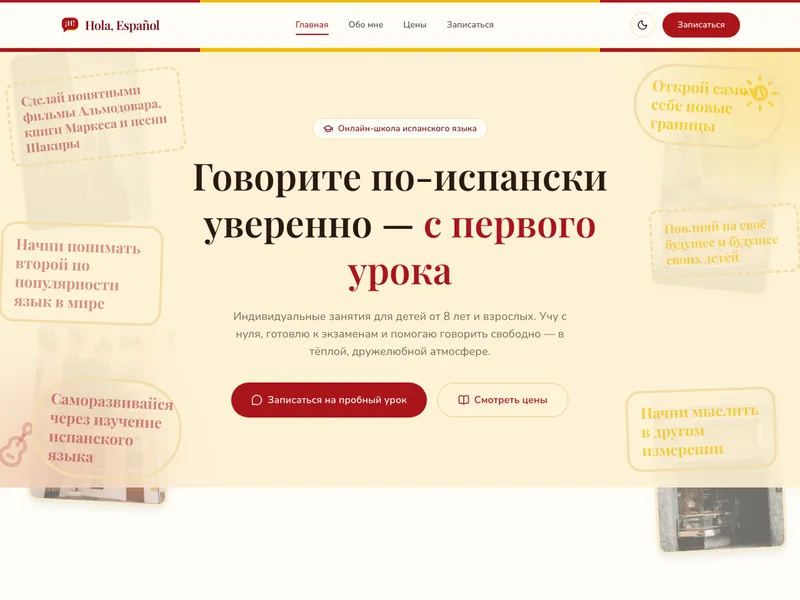
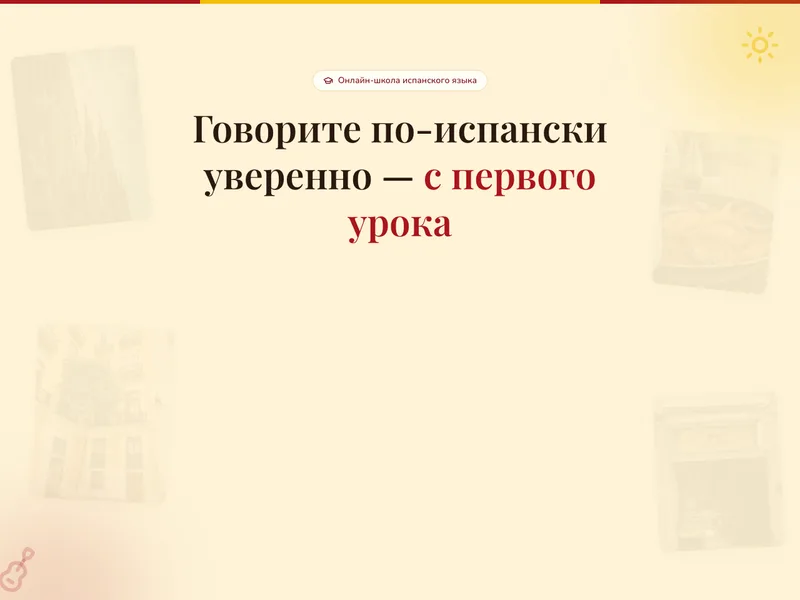
feat(ui): аватары учеников, 4 статьи на главной, спокойный «ИИ блог», круглые колёса роботов
- Аватары Екатерины и Евгения на карточках работ (240x240 webp).
- Превью сайтов Екатерины и Евгения пересняты без шапки, подзаголовков
  и кнопок: текст карточки больше не накладывается на текст скриншота.
- Секция блога на главной: 4 свежие статьи, заголовок «Обучающие материалы».
- Заголовок /blog: «ИИ» терракотой, «блог» основным цветом, размер heading-xl;
  розовый и белая обводка убраны вместе с неиспользуемым CSS.
- Колёса роботов-персонажей стали круглыми (circle вместо rect).

diff --git a/app/globals.css b/app/globals.css
@@ -25,10 +25,6 @@
     --brand-terracotta: 191 99 58; /* #BF633A жжёная охра — главный цвет */
     --brand-amber: 209 147 47; /* #D1932F медовое золото — AI-акценты */
     --brand-green: 138 158 108; /* #8A9E6C приглушённый оливковый — CTA */
-    /* Розовый в надписи «ИИ». На светлом фоне тон насыщеннее, иначе буквы
-       растворяются в странице */
-    --shine-base: 214 41 126; /* #D6297E */
-
     /* Границы и тени */
     --border-light: 228 224 215; /* #E4E0D7 нейтральная тёплая граница */
     --shadow-soft: 0 8px 30px rgba(26, 29, 31, 0.08);
@@ -56,8 +52,6 @@
     --brand-terracotta: 212 135 102; /* #D48766 */
     --brand-amber: 232 192 112; /* #E8C070 */
     --brand-green: 122 207 168; /* #7ACFA8 */
-    /* На тёмном фоне розовый можно брать светлее */
-    --shine-base: 255 79 163; /* #FF4FA3 */
 
     /* Границы и тени */
     --border-light: 58 53 50; /* #3A3532 */
@@ -195,27 +189,6 @@
     animation: none;
     /* Без анимации показываем ленту от начала */
     transform: translateX(0);
-  }
-}
-
-/* ===== Надпись «ИИ» (components/blog/BlogWordmark.tsx) =====
-   Сплошной розовый: на светлом фоне глубже, на тёмном светлее. */
-
-.text-shine {
-  color: rgb(var(--shine-base));
-}
-
-/* Белые буквы с чёрной обводкой. Обводка идёт снаружи глифа (paint-order),
-   поэтому не съедает форму букв и работает на любом фоне. */
-.text-outlined {
-  color: #fff;
-  -webkit-text-stroke: 2px #000;
-  paint-order: stroke fill;
-}
-
-@media (min-width: 640px) {
-  .text-outlined {
-    -webkit-text-stroke-width: 3px;
   }
 }
 

diff --git a/components/RobotBackdrop.tsx b/components/RobotBackdrop.tsx
@@ -41,11 +41,11 @@ export function CourierRobot({ className = '', style }: SpriteProps) {
       <path d="M28,-34 L46,-26" stroke={terracotta} strokeWidth="5" />
       <rect x="42" y="-26" width="22" height="14" fill={green} />
       <g className="rb-wheel">
-        <rect x="-24" y="-10" width="20" height="20" fill={ink} />
+        <circle cx="-14" cy="0" r="10" fill={ink} />
         <line x1="-14" y1="-6" x2="-14" y2="6" stroke={surface} strokeWidth="2.5" />
       </g>
       <g className="rb-wheel">
-        <rect x="4" y="-10" width="20" height="20" fill={ink} />
+        <circle cx="14" cy="0" r="10" fill={ink} />
         <line x1="14" y1="-6" x2="14" y2="6" stroke={surface} strokeWidth="2.5" />
       </g>
     </svg>
@@ -63,11 +63,11 @@ export function ForkliftRobot({ className = '', style }: SpriteProps) {
       <rect x="-12" y="-26" width="13" height="9" fill={surface} />
       <rect className="rb-pulse" x="11" y="-36" width="6" height="6" fill={terracotta} style={{ animationDelay: '-0.8s' }} />
       <g className="rb-wheel rb-wheel-rev">
-        <rect x="-17" y="-7" width="14" height="14" fill={ink} />
+        <circle cx="-10" cy="0" r="7" fill={ink} />
         <line x1="-10" y1="-4" x2="-10" y2="4" stroke={surface} strokeWidth="2" />
       </g>
       <g className="rb-wheel rb-wheel-rev">
-        <rect x="3" y="-7" width="14" height="14" fill={ink} />
+        <circle cx="10" cy="0" r="7" fill={ink} />
         <line x1="10" y1="-4" x2="10" y2="4" stroke={surface} strokeWidth="2" />
       </g>
     </svg>

diff --git a/components/sections/BlogTeaser.tsx b/components/sections/BlogTeaser.tsx
@@ -3,22 +3,22 @@ import { Reveal } from '@/components/Reveal';
 import { BlogCard } from '@/components/blog/BlogCard';
 import { getAllPosts } from '@/lib/blog';
 
-/** Две свежие статьи блога на главной — перед формой заявки. */
+/** Четыре свежие статьи блога на главной — перед формой заявки. */
 export function BlogTeaser() {
-  const posts = getAllPosts().slice(0, 2);
+  const posts = getAllPosts().slice(0, 4);
 
   return (
     <section id="blog-teaser" className="section scroll-mt-24 bg-surface-soft">
       <div className="container-page">
         <Reveal>
-          <h2 className="heading-lg text-center">Свежее из блога</h2>
+          <h2 className="heading-lg text-center">Обучающие материалы</h2>
           <p className="mx-auto mt-4 max-w-2xl text-center text-ink-soft">
             Пишем о том, как делать сайты самому с помощью ИИ-агентов: разборы,
             инструкции и чеклисты.
           </p>
         </Reveal>
 
-        <div className="mx-auto mt-12 grid max-w-3xl gap-6 sm:grid-cols-2">
+        <div className="mt-12 grid gap-6 sm:grid-cols-2 lg:grid-cols-4">
           {posts.map((post, index) => (
             <Reveal key={post.slug} delay={index * 80}>
               <BlogCard post={post} />

diff --git a/components/blog/BlogWordmark.tsx b/components/blog/BlogWordmark.tsx
@@ -1,14 +1,14 @@
 /**
- * Заголовок списка статей: крупная надпись «ИИ блог».
+ * Заголовок списка статей: «ИИ блог».
  *
- * «ИИ» набран сплошным розовым, «блог» — белым с чёрной обводкой. Без теней,
- * заливок и анимации: минималистично.
+ * Спокойная версия в палитре сайта: «ИИ» терракотой (главный акцент бренда,
+ * как выделенные слова в заголовках на главной), «блог» основным цветом
+ * текста. Размер — heading-xl, как у обложек остальных страниц.
  */
 export function BlogWordmark() {
   return (
-    <h1 className="select-none font-display text-6xl font-bold uppercase leading-none tracking-tight sm:text-8xl lg:text-9xl">
-      <span className="text-shine">ИИ</span>{' '}
-      <span className="text-outlined">блог</span>
+    <h1 className="heading-xl select-none">
+      <span className="text-terracotta">ИИ</span> блог
     </h1>
   );
 }

diff --git a/components/sections/StudentWorks.tsx b/components/sections/StudentWorks.tsx
@@ -46,6 +46,7 @@ const works: Work[] = [
       'Онлайн-школа испанского: индивидуальные занятия и запись на пробный урок.',
     url: 'https://education-beta-snowy.vercel.app/',
     image: '/images/works/espanol.webp',
+    photo: '/images/students/ekaterina.webp',
     accent: 'green',
   },
   {
@@ -55,6 +56,7 @@ const works: Work[] = [
       'Медицинский лазерный центр: сведение тату и татуажа без следа на коже.',
     url: 'https://laser-clinic-koja.vercel.app/',
     image: '/images/works/laser.webp',
+    photo: '/images/students/evgeniy.webp',
     accent: 'terracotta',
   },
 ];
